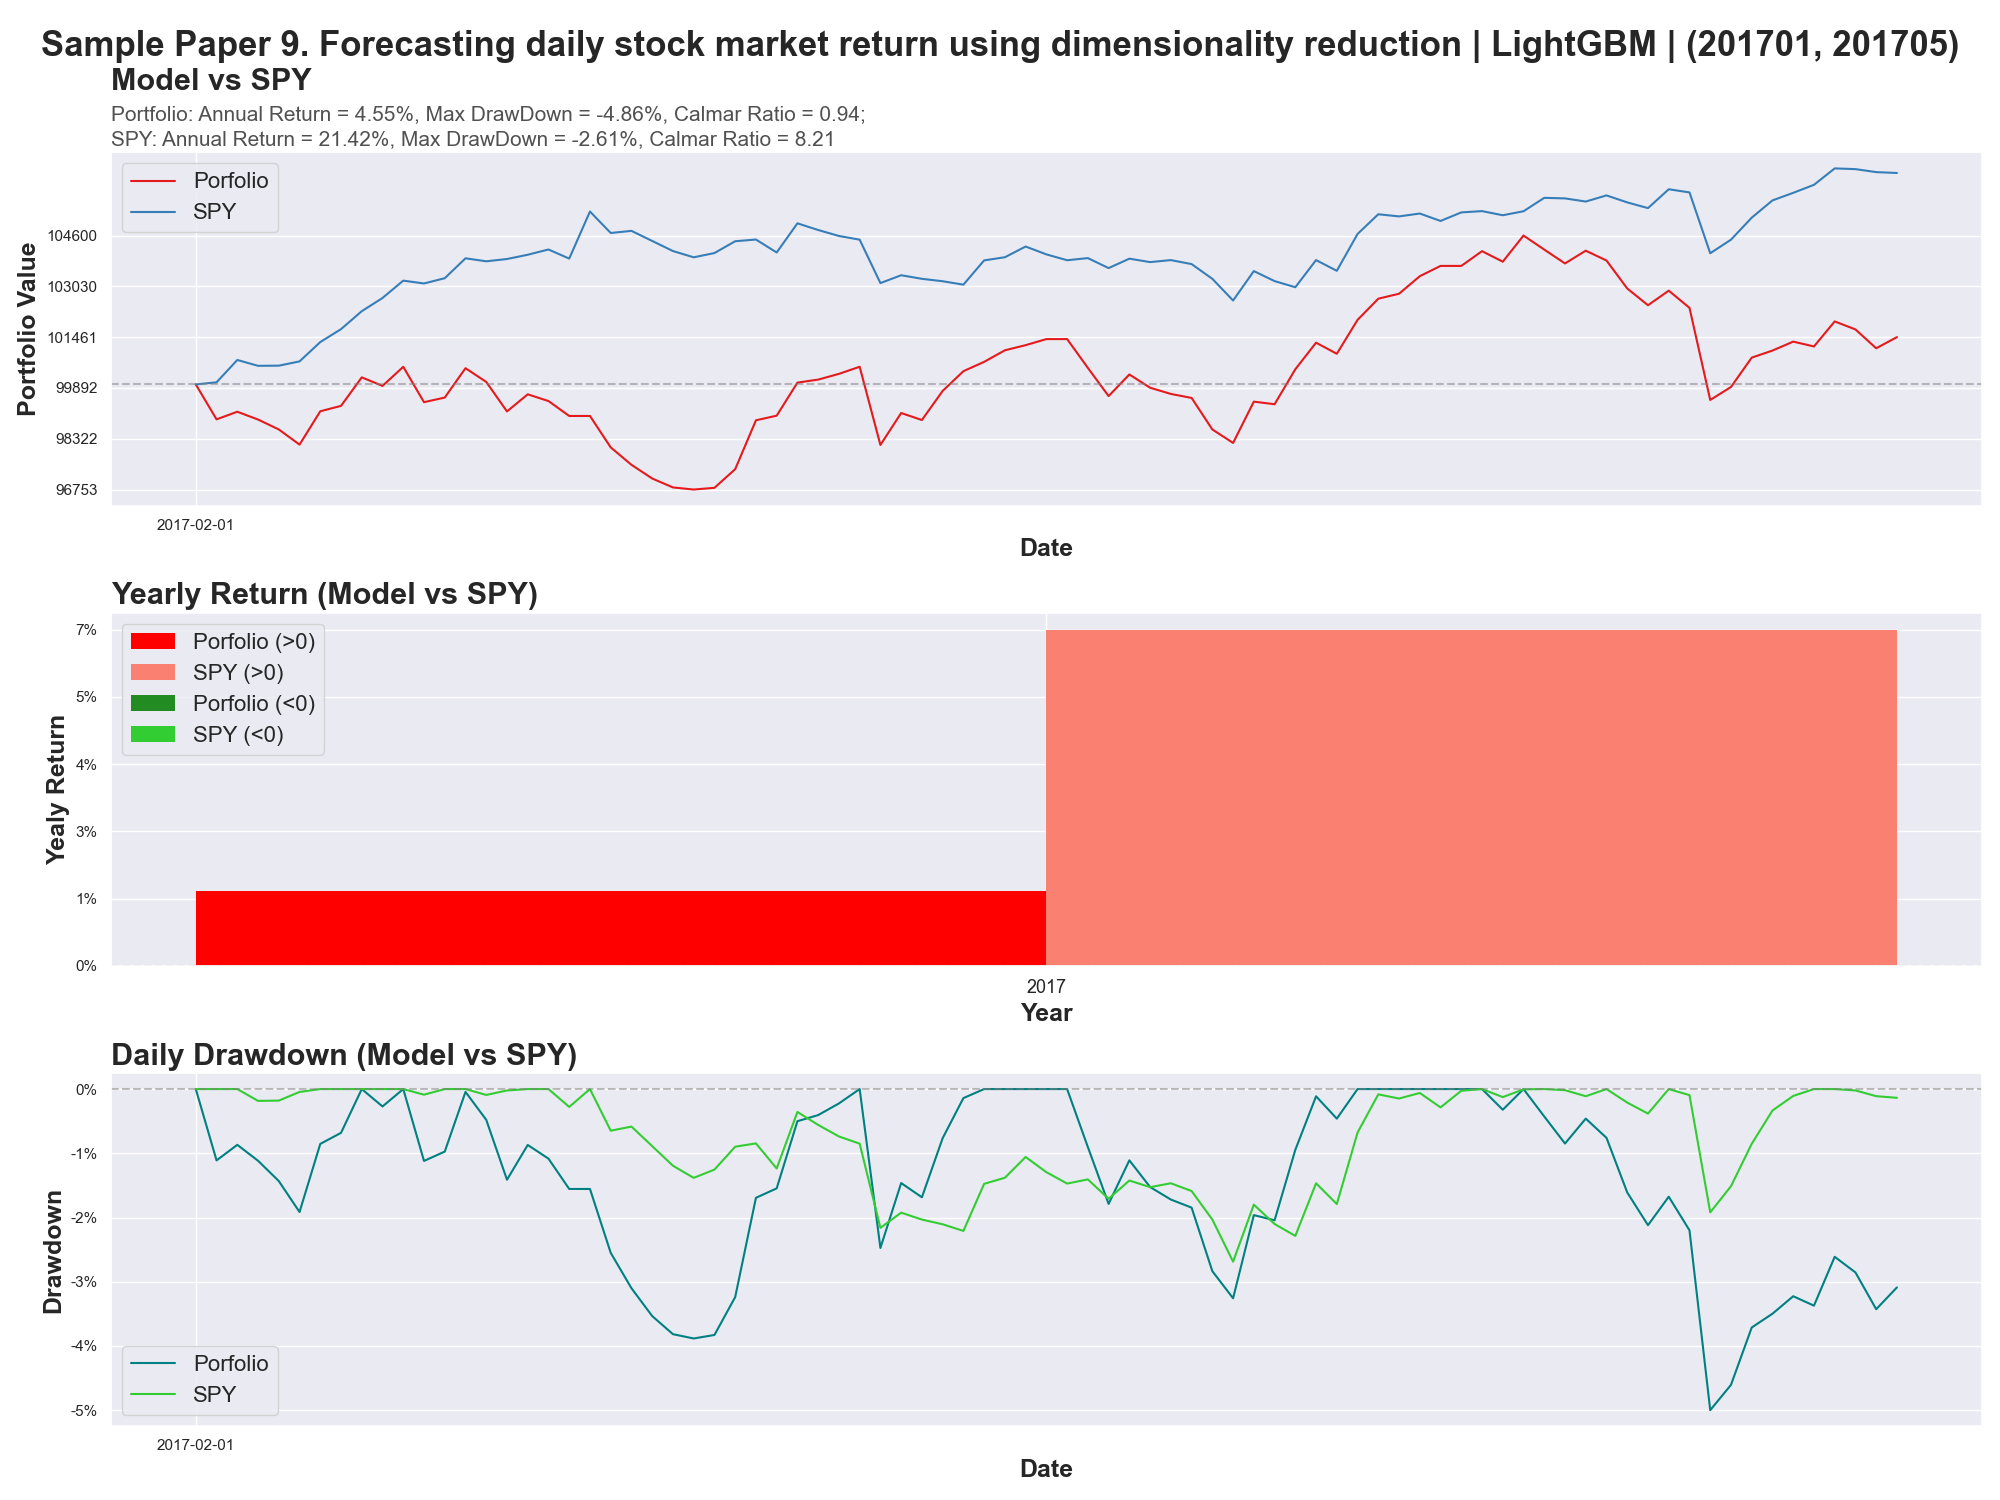
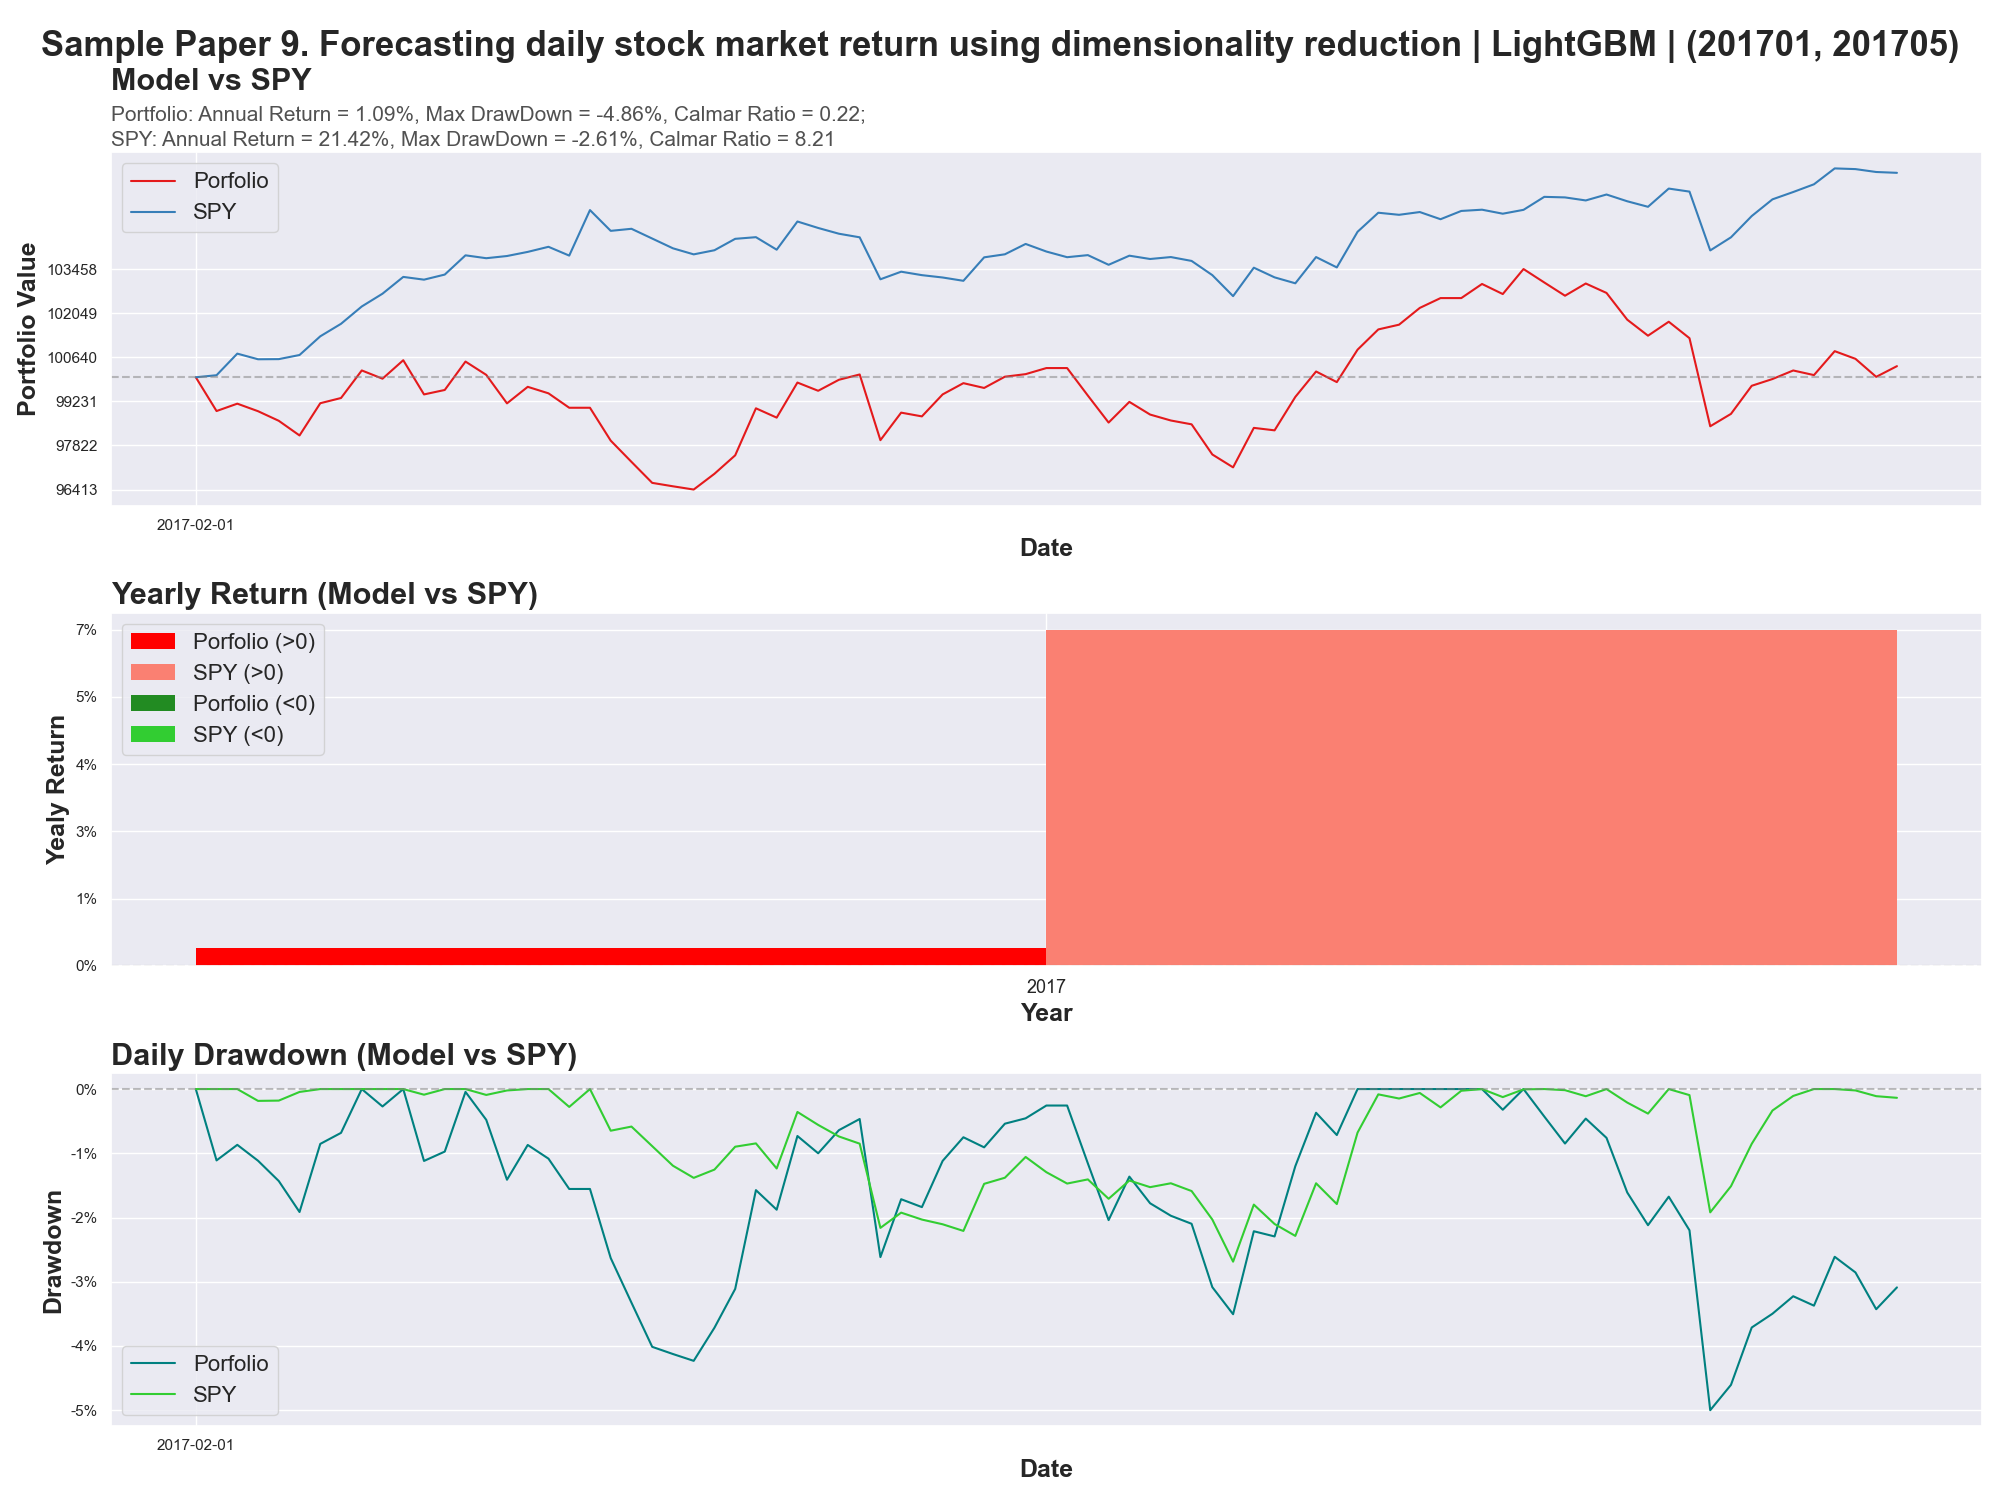
backtest

diff --git a/src/backtest_lr_sample.py b/src/backtest_lr_sample.py
@@ -43,6 +43,7 @@ class BackTest:
         self.df = self.backtest_dataset.get_paper_features()
         self.daily_prc = self.backtest_dataset.get_daily_prc()
         self.pf_daily_trend = pd.DataFrame()
+        #self.df_copy = self.df.copy()
 
          # get necessary config parameters
         self.train_end_date = pd.to_datetime(self.backtest_config.train_end_ym, format='%Y%m')
@@ -304,9 +305,10 @@ class BackTest:
 
             outputs = test_data[self.dummy_cols + [y_col]].copy()
             outputs[pred_col] = model.predict(X_test)
+            #outputs['fut_ret'] = self.df_copy.query(f'date == "{predict_date}"')['fut_ret1']
             # descending sort values to select topk-stocks
             outputs = outputs.sort_values(by=[pred_col], ascending=False)
-            #outputs = outputs.sort_values(by=[pred_col, 'fut_ret'], ascending=[False, False], ignore_index=True)
+            #outputs = outputs.sort_values(by=[pred_col, 'fut_ret'], ascending=[False, False])
             # find out the legal ticker will have how many days recording during `test_period` months
             ideal_ser_num = sum([self.counting_max[(pdt.year, pdt.month)] for pdt in predict_dates])
             # equally separate investment to `topk` folds
@@ -320,6 +322,8 @@ class BackTest:
             while cnt < topk:
                 # select the ticker name with rank number `idx`
                 ticker_name = outputs.iloc[idx, :]['ticker']
+                print(ticker_name)
+                print('cnt', cnt, 'and idx', idx)
                 # select the daily changing prices of this ticker
                 et = predict_dates[-1] + pd.tseries.offsets.MonthEnd(n=1)
                 try: 
@@ -329,7 +333,9 @@ class BackTest:
                     pass
                 ticker_ts = self.daily_prc.query(
                     f'"{str(predict_dates[0].date())}" <= date <= "{str(et.date())}" and ticker == "{ticker_name}"')
-                if len(ticker_ts) != ideal_ser_num or ticker_name not in sp500_historical_tickers:
+                if ticker_name not in sp500_historical_tickers:
+                    pass
+                if len(ticker_ts) != ideal_ser_num:
                     # this ticker is illegal, just skip and find next. 
                     # if this ticker is not in the historical_tciker, skip and find next
                     idx += 1

diff --git a/src/backtest.py b/src/backtest.py
@@ -43,6 +43,7 @@ class BackTest:
         self.df = self.backtest_dataset.get_paper_features()
         self.daily_prc = self.backtest_dataset.get_daily_prc()
         self.pf_daily_trend = pd.DataFrame()
+        self.df_copy = self.df.copy()
 
          # get necessary config parameters
         self.train_end_date = pd.to_datetime(self.backtest_config.train_end_ym, format='%Y%m')
@@ -304,9 +305,10 @@ class BackTest:
 
             outputs = test_data[self.dummy_cols + [y_col]].copy()
             outputs[pred_col] = model.predict(X_test)
+            outputs['fut_ret'] = self.df_copy.query(f'date == "{predict_date}"')['fut_ret1']
             # descending sort values to select topk-stocks
-            outputs = outputs.sort_values(by=[pred_col], ascending=False)
-            #outputs = outputs.sort_values(by=[pred_col, 'fut_ret'], ascending=[False, False], ignore_index=True)
+            #outputs = outputs.sort_values(by=[pred_col], ascending=False)
+            outputs = outputs.sort_values(by=[pred_col, 'fut_ret'], ascending=[False, False])
             # find out the legal ticker will have how many days recording during `test_period` months
             ideal_ser_num = sum([self.counting_max[(pdt.year, pdt.month)] for pdt in predict_dates])
             # equally separate investment to `topk` folds
@@ -329,8 +331,9 @@ class BackTest:
                     pass
                 ticker_ts = self.daily_prc.query(
                     f'"{str(predict_dates[0].date())}" <= date <= "{str(et.date())}" and ticker == "{ticker_name}"')
-                #if len(ticker_ts) != ideal_ser_num:
-                if len(ticker_ts) != ideal_ser_num or ticker_name not in sp500_historical_tickers:
+                if ticker_name not in sp500_historical_tickers:
+                    pass
+                if len(ticker_ts) != ideal_ser_num:
                     # this ticker is illegal, just skip and find next. 
                     # if this ticker is not in the historical_tciker, skip and find next
                     idx += 1

diff --git a/src/backtest_lgb_sample.py b/src/backtest_lgb_sample.py
@@ -43,6 +43,7 @@ class BackTest:
         self.df = self.backtest_dataset.get_paper_features()
         self.daily_prc = self.backtest_dataset.get_daily_prc()
         self.pf_daily_trend = pd.DataFrame()
+        self.df_copy = self.df.copy()
 
          # get necessary config parameters
         self.train_end_date = pd.to_datetime(self.backtest_config.train_end_ym, format='%Y%m')
@@ -304,9 +305,10 @@ class BackTest:
 
             outputs = test_data[self.dummy_cols + [y_col]].copy()
             outputs[pred_col] = model.predict(X_test)
+            outputs['fut_ret'] = self.df_copy.query(f'date == "{predict_date}"')['fut_ret1']
             # descending sort values to select topk-stocks
-            outputs = outputs.sort_values(by=[pred_col], ascending=False)
-            #outputs = outputs.sort_values(by=[pred_col, 'fut_ret'], ascending=[False, False], ignore_index=True)
+            #outputs = outputs.sort_values(by=[pred_col], ascending=False)
+            outputs = outputs.sort_values(by=[pred_col, 'fut_ret'], ascending=[False, False])
             # find out the legal ticker will have how many days recording during `test_period` months
             ideal_ser_num = sum([self.counting_max[(pdt.year, pdt.month)] for pdt in predict_dates])
             # equally separate investment to `topk` folds
@@ -329,8 +331,9 @@ class BackTest:
                     pass
                 ticker_ts = self.daily_prc.query(
                     f'"{str(predict_dates[0].date())}" <= date <= "{str(et.date())}" and ticker == "{ticker_name}"')
+                if ticker_name not in sp500_historical_tickers:
+                    pass
                 if len(ticker_ts) != ideal_ser_num:
-                #if len(ticker_ts) != ideal_ser_num or ticker_name not in sp500_historical_tickers:
                     # this ticker is illegal, just skip and find next. 
                     # if this ticker is not in the historical_tciker, skip and find next
                     idx += 1
